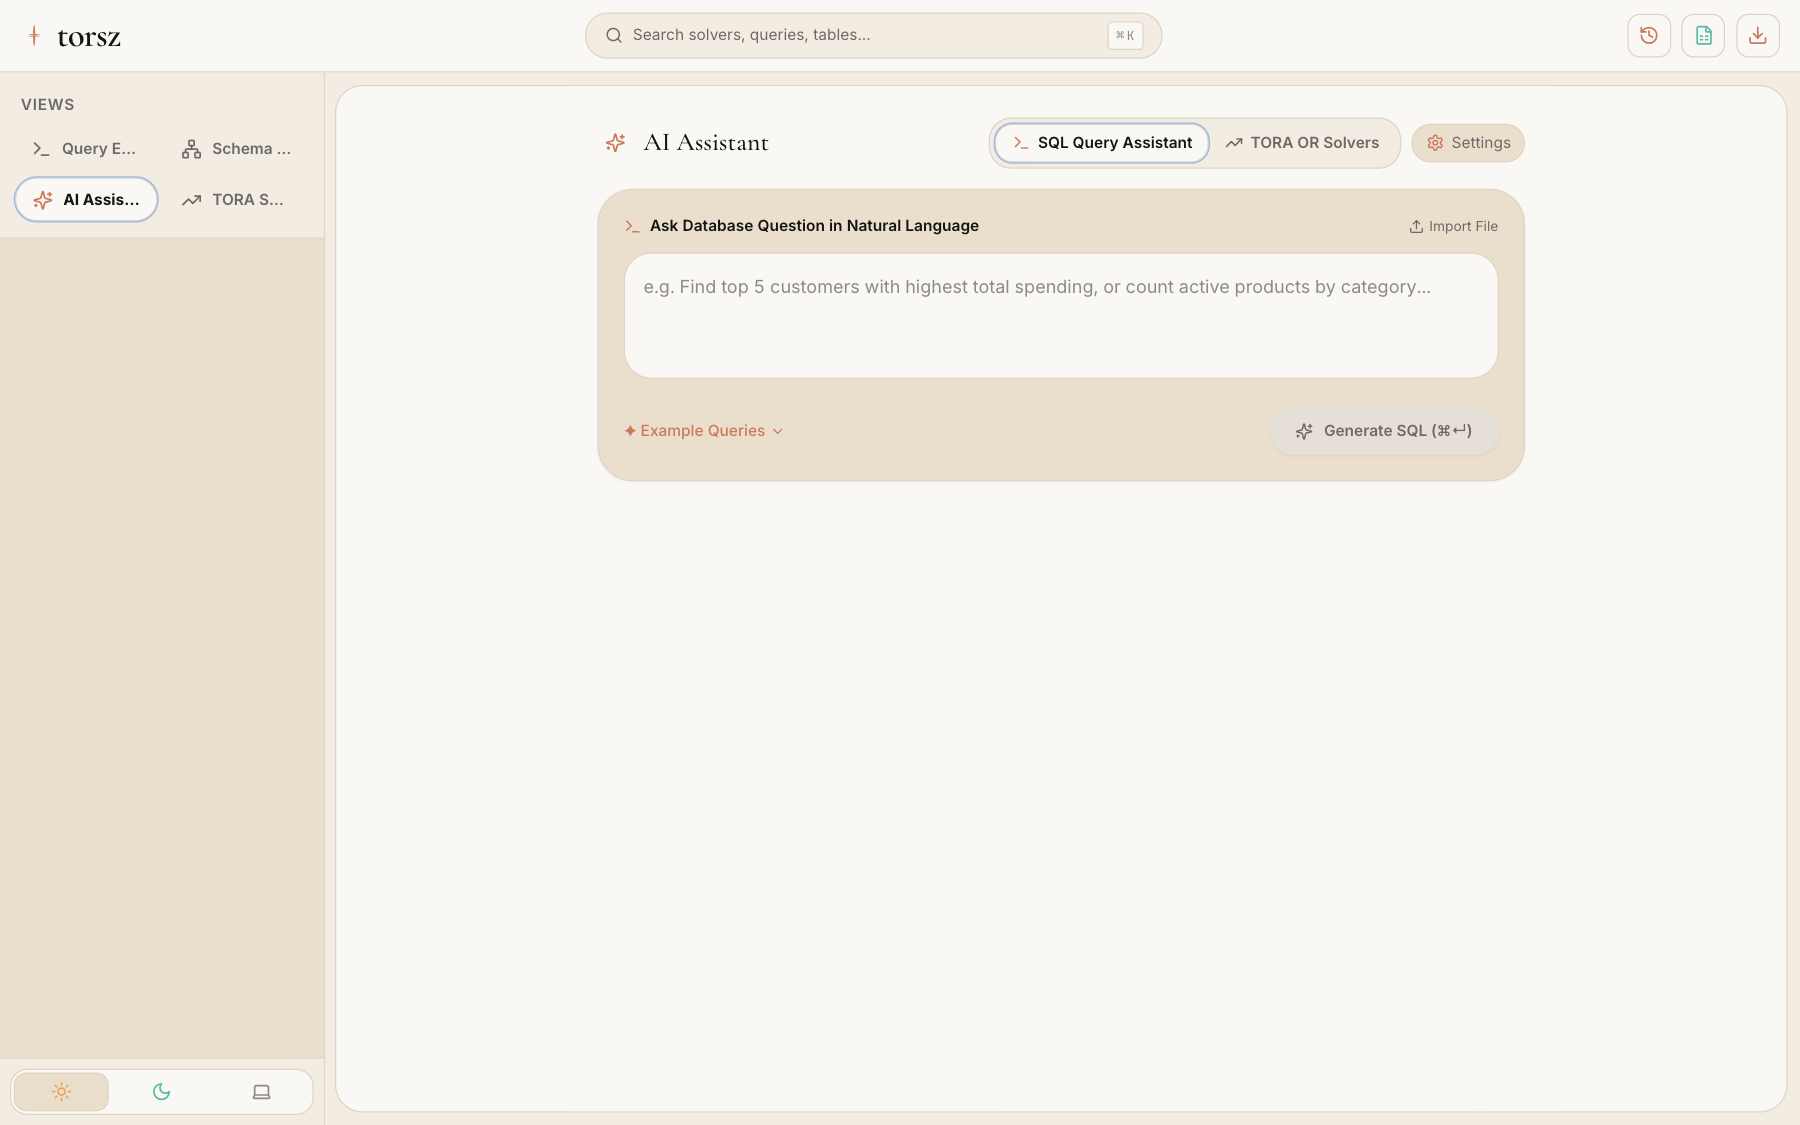
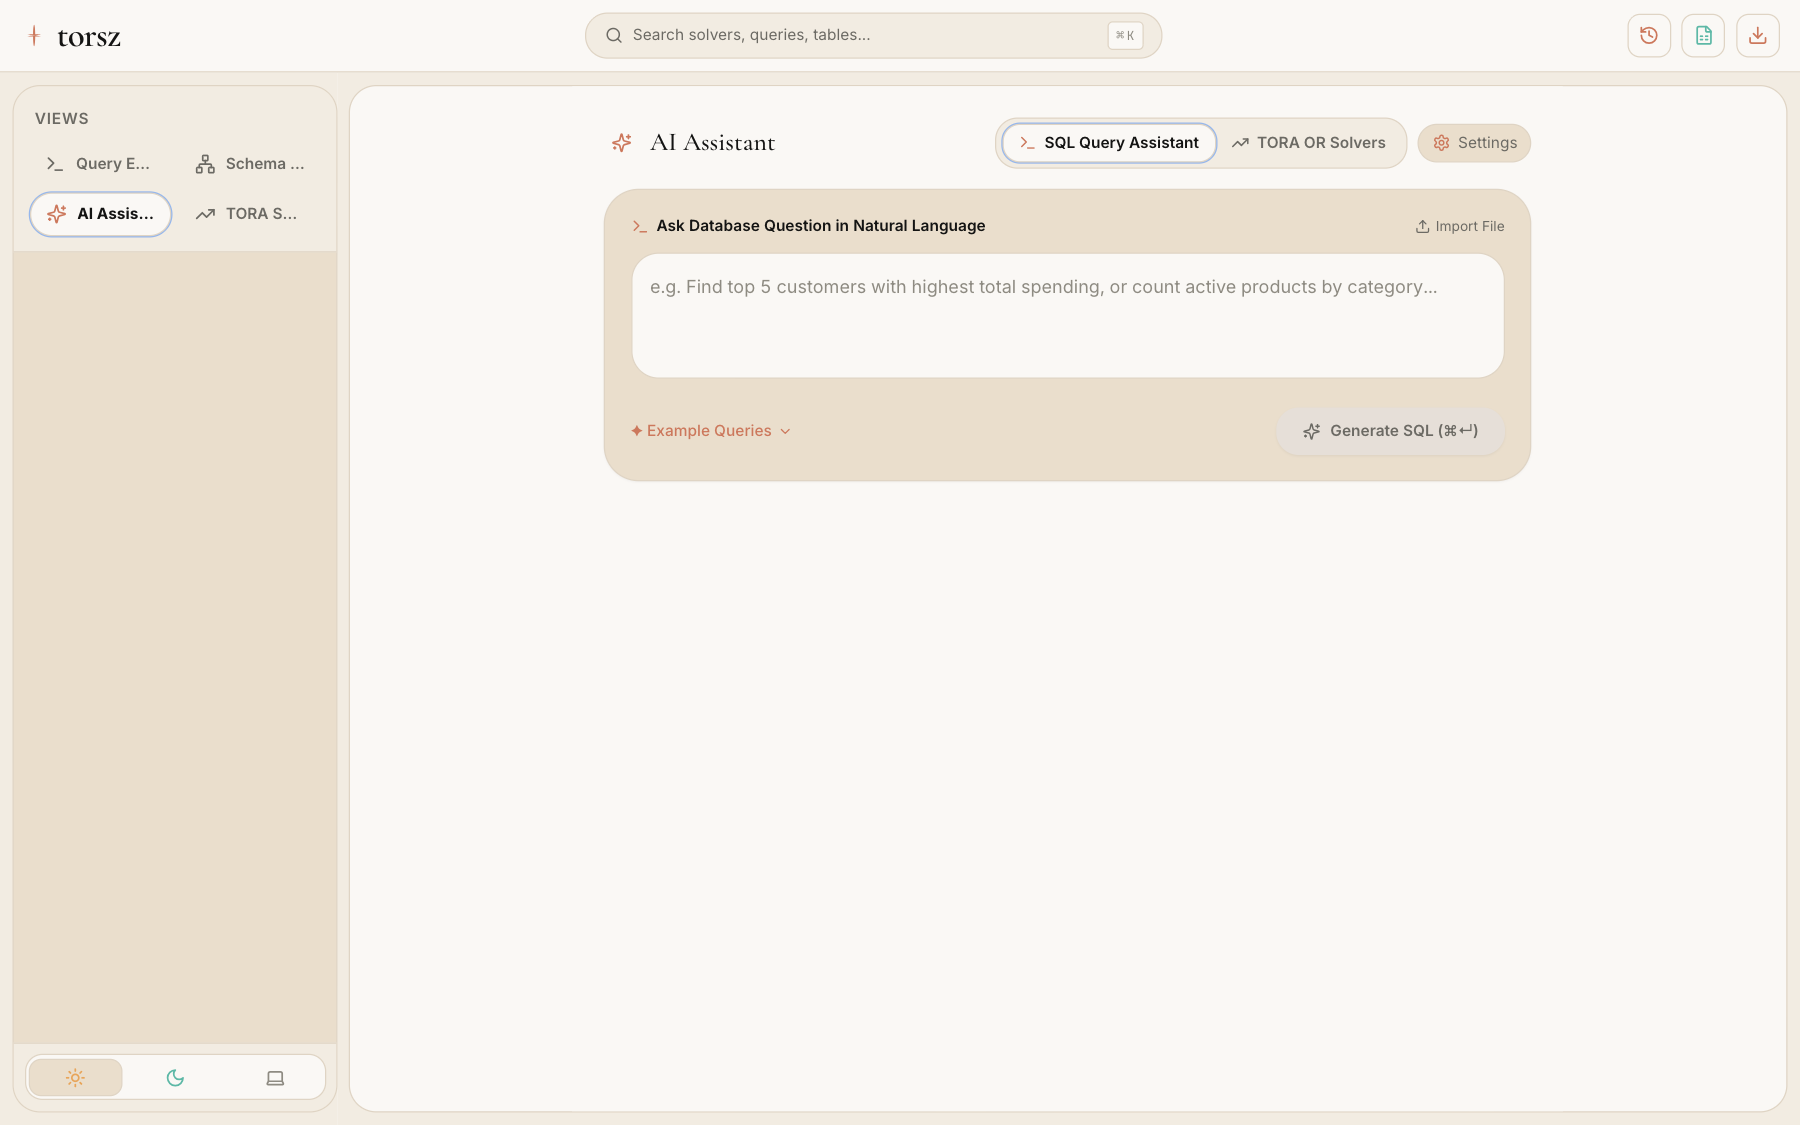
style(sidebar): frame left sidebar as rounded-2xl container with smooth corners, subtle surface-soft margin, and overflow-hidden geometry

diff --git a/src/components/Sidebar.tsx b/src/components/Sidebar.tsx
@@ -162,7 +162,7 @@ export const Sidebar: React.FC<SidebarProps> = ({
   return (
     <aside
       style={{ width: `${width}px` }}
-      className={`relative bg-surface-card border-r border-hairline flex flex-col h-[calc(100vh-3.5rem)] select-none text-body shrink-0 transition-none ${
+      className={`relative bg-surface-card border border-hairline rounded-2xl flex flex-col h-full select-none text-body shrink-0 overflow-hidden shadow-2xs transition-none ${
         isDragging ? "cursor-col-resize select-none" : ""
       }`}
     >

diff --git a/src/App.tsx b/src/App.tsx
@@ -404,7 +404,7 @@ function MainWorkspace() {
 
         {/* Left Schema Sidebar */}
         {isSidebarOpen && (
-          <div className="fixed md:static inset-y-14 left-0 z-40 md:z-auto h-[calc(100vh-3.5rem)] shadow-2xl md:shadow-none">
+          <div className="fixed md:static inset-y-14 left-0 z-40 md:z-auto h-[calc(100vh-3.5rem)] shadow-2xl md:shadow-none p-2.5 pr-0 bg-surface-soft">
             <Sidebar
               activeView={activeView}
               onSelectView={(v) => {
